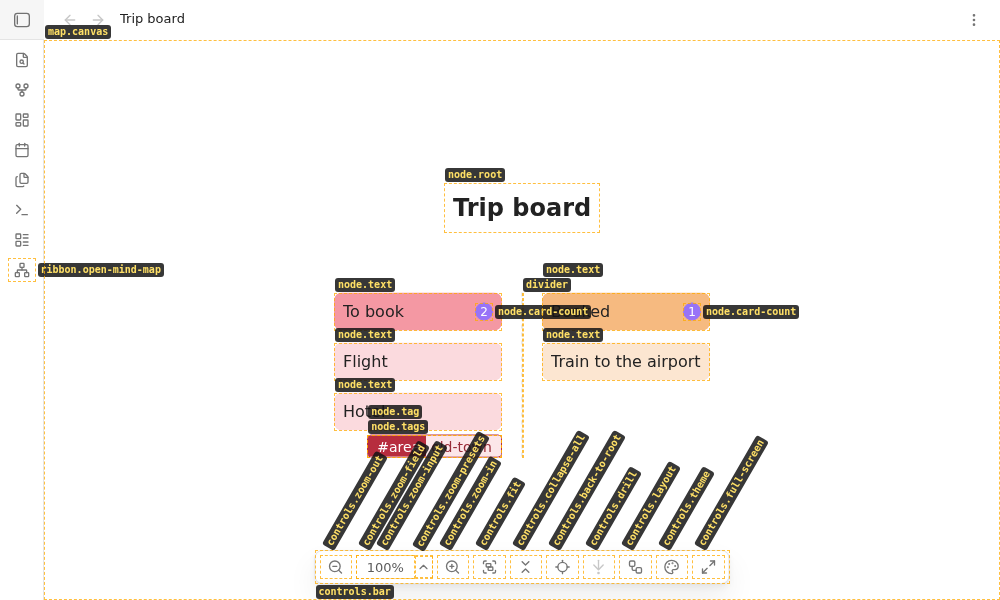
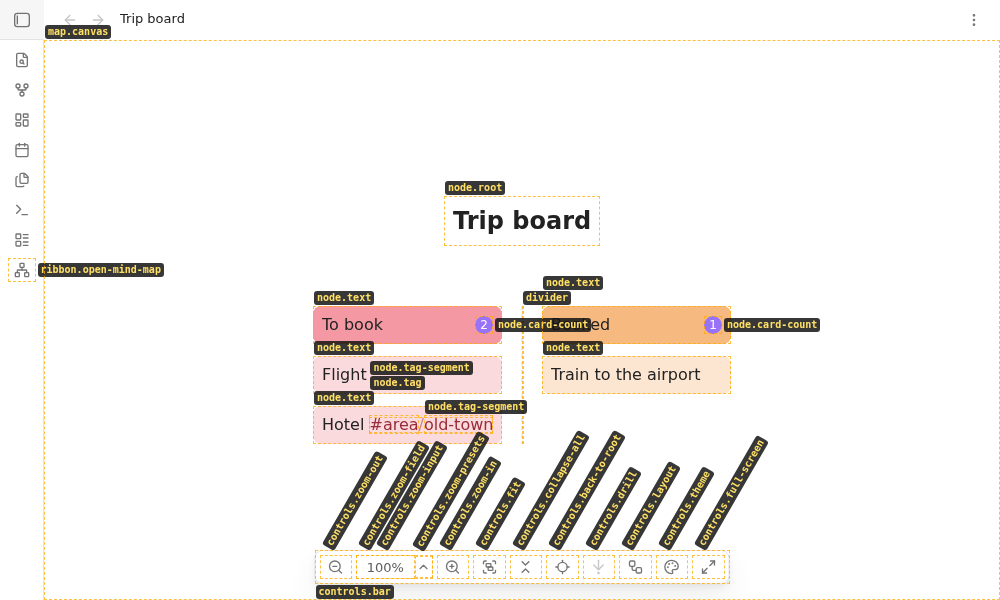
docs: regenerate the kanban element ID image for tags as text

Changed region(s): [[0.31, 0.42, 0.837, 0.78], [0.434, 0.27, 0.589, 0.39]]

diff --git a/docs/ui-elements.md b/docs/ui-elements.md
@@ -20,7 +20,7 @@ Made with "Show element IDs (dev)" by `npm run ui:images` (writes `docs/images/u
 
 ![Full screen with a collapsed branch, a drilled-in center, a highlighted link and the control bar, every element labelled](images/ui-elements-full-screen.png)
 
-![A small board in the kanban layout: the headline, two columns with their card counts, cards, a nested tag in its tag row below a card and a divider, every element labelled](images/ui-elements-kanban.png)
+![A small board in the kanban layout: the headline, two columns with their card counts, cards, a nested tag as text in a card (tags mode text, one segment per level) and a divider, every element labelled](images/ui-elements-kanban.png)
 
 ## Contents
 
